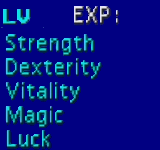
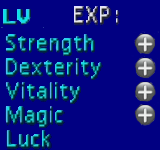
(start_battle.c) add exp at the end of a battle and lvl up at 10exp, (upgrade_stat.c) add button to upgrade stat if you have lvl up

Changed region(s): [[0.8438, 0.2133, 0.9688, 0.8533]]

diff --git a/stat/upgrade_stat.c b/stat/upgrade_stat.c
@@ -18,23 +18,29 @@
 #include <SFML/Audio.h>
 #include <SFML/Audio/Music.h>
 
-// void upgrade_stat(stats_t *stat)
-// {
-//     if (stat->nbr_of_point == 0)
-//         return;
-//     if (stat == 1 || stat == 2) {
-//         if (stat == 1)
-//             stat->stat->dext++;
-//         if (stat == 2)
-//             stat->stat->health++;
-//     }
-//     if (stat == 3 || stat == 4) {
-//         if (stat == 3)
-//             stat->stat->luck++;
-//         if (stat == 4)
-//             stat->stat->strenght++;
-//     }
-//     if (stat == 5)
-//         stat->stat->wisdom++;
-//     stat->nbr_of_point--;
-// }
+static void which_button_click_stat(struct_object *obj, sfVector2i mouse_pos)
+{
+    if (obj->stat->nbr_of_point >= 1) {
+        if (mouse_pos.y <= 600)
+            obj->stat->strenght += 1;
+        else if (mouse_pos.y <= 660)
+            obj->stat->dext += 1;
+        else if (mouse_pos.y <= 710)
+            obj->stat->health += 1;
+        else if (mouse_pos.y <= 760)
+            obj->stat->wisdom += 1;
+        obj->stat->nbr_of_point -= 1;
+    }
+}
+
+void create_button_stat(struct_object *obj)
+{
+    sfVector2i mouse_pos;
+
+    if (obj->event.event.type == sfEvtMouseButtonPressed) {
+        mouse_pos = sfMouse_getPosition((const sfWindow *)obj->window.window);
+        if (mouse_pos.y >= 560 && mouse_pos.y <= 760 && mouse_pos.x >= 470 &&
+        mouse_pos.x <= 520)
+            which_button_click_stat(obj, mouse_pos);
+    }
+}

diff --git a/my_runner.c b/my_runner.c
@@ -62,11 +62,14 @@ int second_window(struct_object *object, sfRenderWindow *window)
         create_button(object);
         object->create = true;
     }
+    if (object->print_stat == true)
+        create_button_stat(object);
     if (object->battle.battle_beg == false)
         object->hero.recup = object->hero.position;
     if (object->battle.battle_beg == true)
         start_battle(object, object->balk_anny);
     move_object(object, window);
+    put_numbers_in_text(object);
     render_window(object, window);
     while (sfRenderWindow_pollEvent(window, &object->event.event))
         analyse_events(window, object);

diff --git a/battle/start_battle.c b/battle/start_battle.c
@@ -29,8 +29,14 @@ static int end_battle(struct_object *obj, struct_charachter foe)
             sfSprite_setPosition(obj->hero.sprite, obj->hero.position);
             sfSprite_setScale(obj->hero.sprite, size);
             obj->battle.battle_beg = false;
+            obj->stat->exp += 50;
         } else
             create_over(obj);
+        if (obj->stat->exp >= 100) {
+            obj->stat->lvl += 1;
+            obj->stat->nbr_of_point += 1;
+            obj->stat->exp -= 100;
+        }
         return 1;
     }
     return 0;

diff --git a/battle/button_battle.c b/battle/button_battle.c
@@ -23,8 +23,7 @@ sfVector2i mouse_pos, struct_charachter foe)
     } else if (mouse_pos.x >= 1048) {
         foe.pv -= obj->stat->wisdom;
         obj->battle.can_attack = false;
-    }
-    else if (mouse_pos.x >= 845 && mouse_pos.x <= 1200) {
+    } else if (mouse_pos.x >= 845 && mouse_pos.x <= 1200) {
         foe.pv -= obj->stat->dext;
         obj->battle.can_attack = false;
     }

diff --git a/includes/my.h b/includes/my.h
@@ -66,5 +66,6 @@
     void create_over(struct_object *obj);
     void pos_over(sfRenderWindow *window, sfEvent *event, struct_object *obj);
     void create_hero_battle(struct_object *obj);
+    void create_button_stat(struct_object *obj);
 
 #endif /* !MY_H_ */
